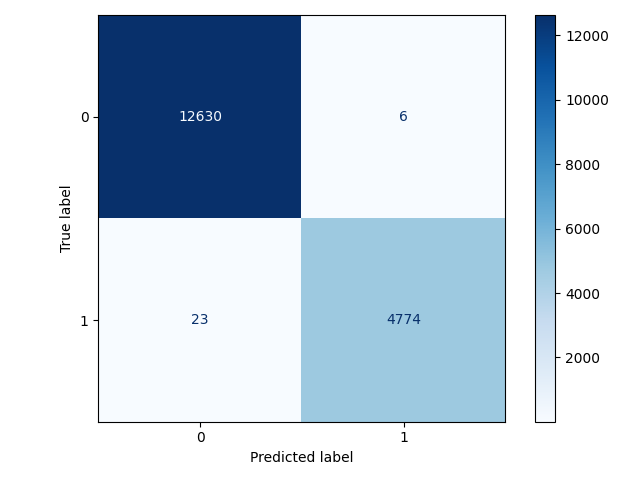
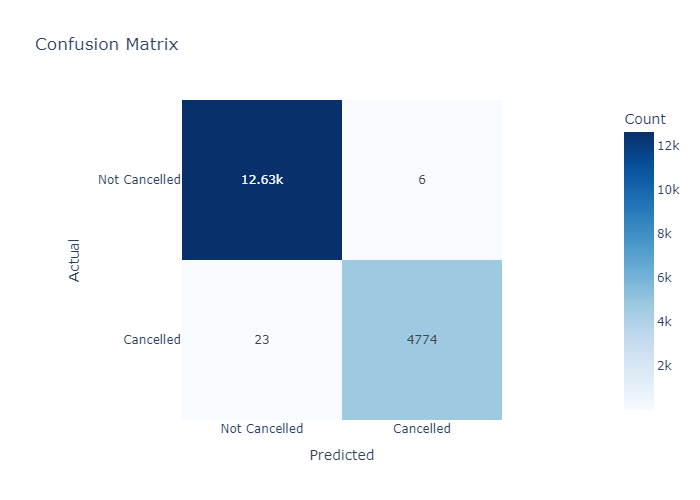
eval_all_models

diff --git a/src/visualization/model_plots.py b/src/visualization/model_plots.py
@@ -1,12 +1,10 @@
 from pathlib import Path
 
-import matplotlib.pyplot as plt
 import numpy as np
-from sklearn.metrics import (
-    ConfusionMatrixDisplay,
-    RocCurveDisplay,
-    confusion_matrix,
-)
+import pandas as pd
+import plotly.express as px
+import plotly.graph_objects as go
+from sklearn.metrics import confusion_matrix, roc_curve, auc
 
 
 def _ensure_dir(path: Path) -> None:
@@ -16,56 +14,133 @@ def _ensure_dir(path: Path) -> None:
 def plot_confusion(y_true, y_pred, output_dir: str | Path) -> Path:
     output = Path(output_dir)
     _ensure_dir(output)
+
     cm = confusion_matrix(y_true, y_pred)
-    disp = ConfusionMatrixDisplay(confusion_matrix=cm)
-    disp.plot(cmap="Blues")
+
+    fig = px.imshow(
+        cm,
+        text_auto=True,
+        color_continuous_scale="Blues",
+        labels={
+            "x": "Predicted",
+            "y": "Actual",
+            "color": "Count",
+        },
+        x=["Not Cancelled", "Cancelled"],
+        y=["Not Cancelled", "Cancelled"],
+        title="Confusion Matrix",
+    )
+
     path = output / "confusion_matrix.png"
-    plt.tight_layout()
-    plt.savefig(path)
-    plt.close()
+    fig.write_image(path)
+
     return path
 
 
 def plot_roc(y_true, y_prob, output_dir: str | Path) -> Path:
     output = Path(output_dir)
     _ensure_dir(output)
-    RocCurveDisplay.from_predictions(y_true, y_prob)
+
+    fpr, tpr, _ = roc_curve(y_true, y_prob)
+    roc_auc = auc(fpr, tpr)
+
+    fig = go.Figure()
+
+    fig.add_trace(
+        go.Scatter(
+            x=fpr,
+            y=tpr,
+            mode="lines",
+            name=f"ROC Curve (AUC={roc_auc:.4f})",
+        )
+    )
+
+    fig.add_trace(
+        go.Scatter(
+            x=[0, 1],
+            y=[0, 1],
+            mode="lines",
+            line=dict(dash="dash"),
+            name="Random Classifier",
+        )
+    )
+
+    fig.update_layout(
+        title="ROC Curve",
+        xaxis_title="False Positive Rate",
+        yaxis_title="True Positive Rate",
+        template="plotly_white",
+    )
+
     path = output / "roc_curve.png"
-    plt.tight_layout()
-    plt.savefig(path)
-    plt.close()
+    fig.write_image(path)
+
     return path
 
 
-def plot_feature_importance(feature_names, importances, output_dir: str | Path) -> Path:
+def plot_feature_importance(
+    feature_names,
+    importances,
+    output_dir: str | Path,
+) -> Path:
     output = Path(output_dir)
     _ensure_dir(output)
+
     feature_names = np.array(feature_names)
     importances = np.array(importances)
+
     idx = np.argsort(importances)[-20:]
 
-    plt.figure(figsize=(10, 6))
-    plt.barh(feature_names[idx], importances[idx])
-    plt.title("Top Feature Importances")
+    df = pd.DataFrame({
+        "feature": feature_names[idx],
+        "importance": importances[idx],
+    }).sort_values("importance", ascending=True)
+
+    fig = px.bar(
+        df,
+        x="importance",
+        y="feature",
+        orientation="h",
+        title="Top 20 Feature Importances",
+    )
+
+    fig.update_layout(template="plotly_white")
+
     path = output / "feature_importance.png"
-    plt.tight_layout()
-    plt.savefig(path)
-    plt.close()
+    fig.write_image(path)
+
     return path
 
 
-def plot_model_comparison(results_df, output_dir: str | Path) -> Path:
+def plot_model_comparison(
+    results_df: pd.DataFrame,
+    output_dir: str | Path,
+) -> Path:
     output = Path(output_dir)
     _ensure_dir(output)
 
     ordered = results_df.sort_values("f1", ascending=False)
-    plt.figure(figsize=(10, 5))
-    plt.bar(ordered["model"], ordered["f1"])
-    plt.title("Model Comparison by F1")
-    plt.ylabel("F1 Score")
-    plt.xticks(rotation=30, ha="right")
+
+    fig = px.bar(
+        ordered,
+        x="model",
+        y="f1",
+        text="f1",
+        title="Model Comparison by F1 Score",
+    )
+
+    fig.update_traces(
+        texttemplate="%{text:.4f}",
+        textposition="outside",
+    )
+
+    fig.update_layout(
+        xaxis_title="Model",
+        yaxis_title="F1 Score",
+        template="plotly_white",
+    )
+
     path = output / "model_comparison_f1.png"
-    plt.tight_layout()
-    plt.savefig(path)
-    plt.close()
+    fig.write_image(path)
+
     return path